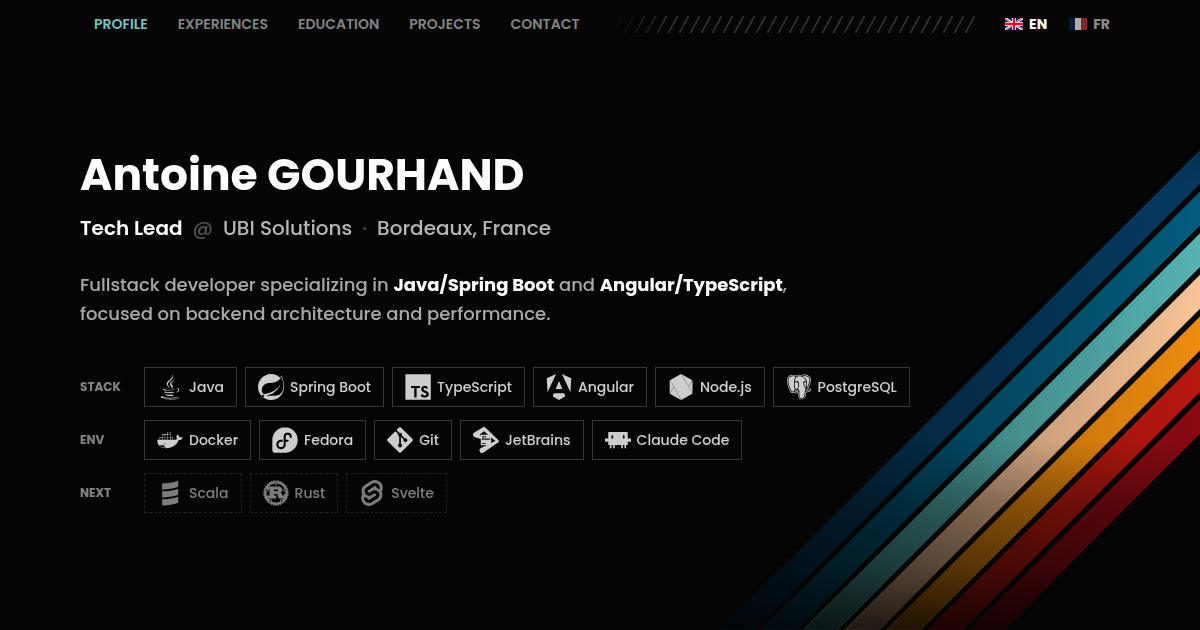
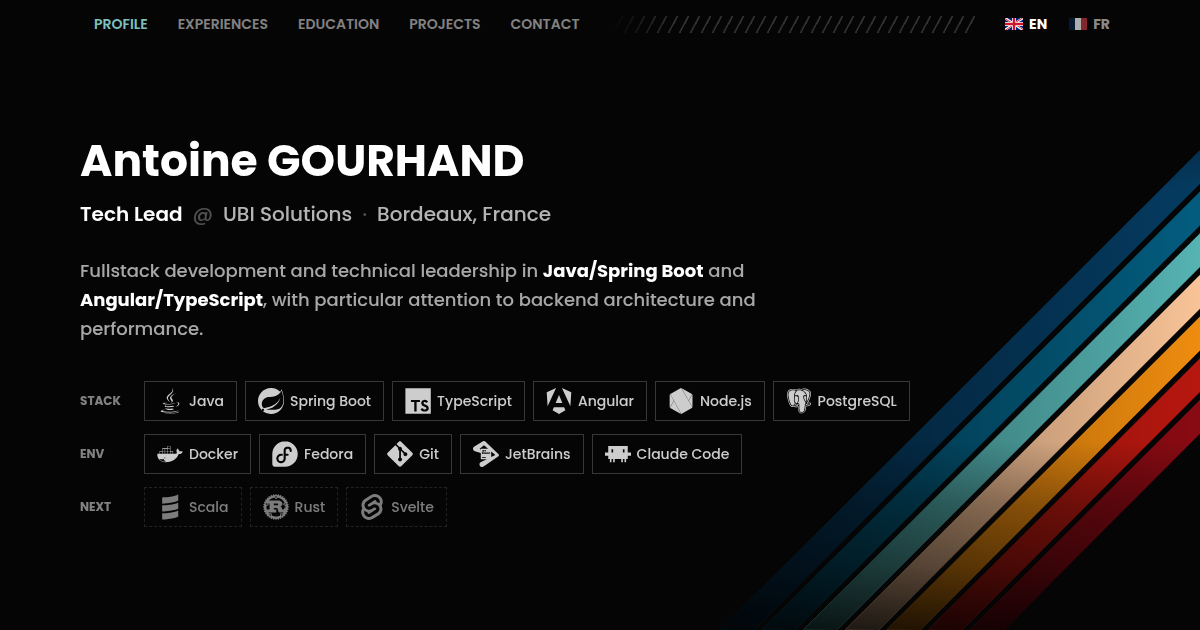
Reword the hero tagline as a profile, not a second title
"Fullstack development and technical leadership in …" describes the profile without competing with the Tech Lead title or naming the current team. The CV header widens to the corner bands' limit and sets the tagline at 8.8pt so it stays on two lines. Preview images recaptured.

diff --git a/src/routes/cv/+page.svelte b/src/routes/cv/+page.svelte
@@ -327,7 +327,8 @@
 	.header {
 		position: relative;
 		margin-bottom: 5mm;
-		max-width: 138mm;
+		/* as wide as the corner bands allow (they start 46 mm from the right edge) */
+		max-width: 151mm;
 	}
 
 	.name {
@@ -350,7 +351,7 @@
 	.tagline {
 		margin-top: 2.5mm;
 		color: var(--cv-muted);
-		font-size: 9.2pt;
+		font-size: 8.8pt;
 
 		:global(strong) {
 			color: var(--cv-strong);
